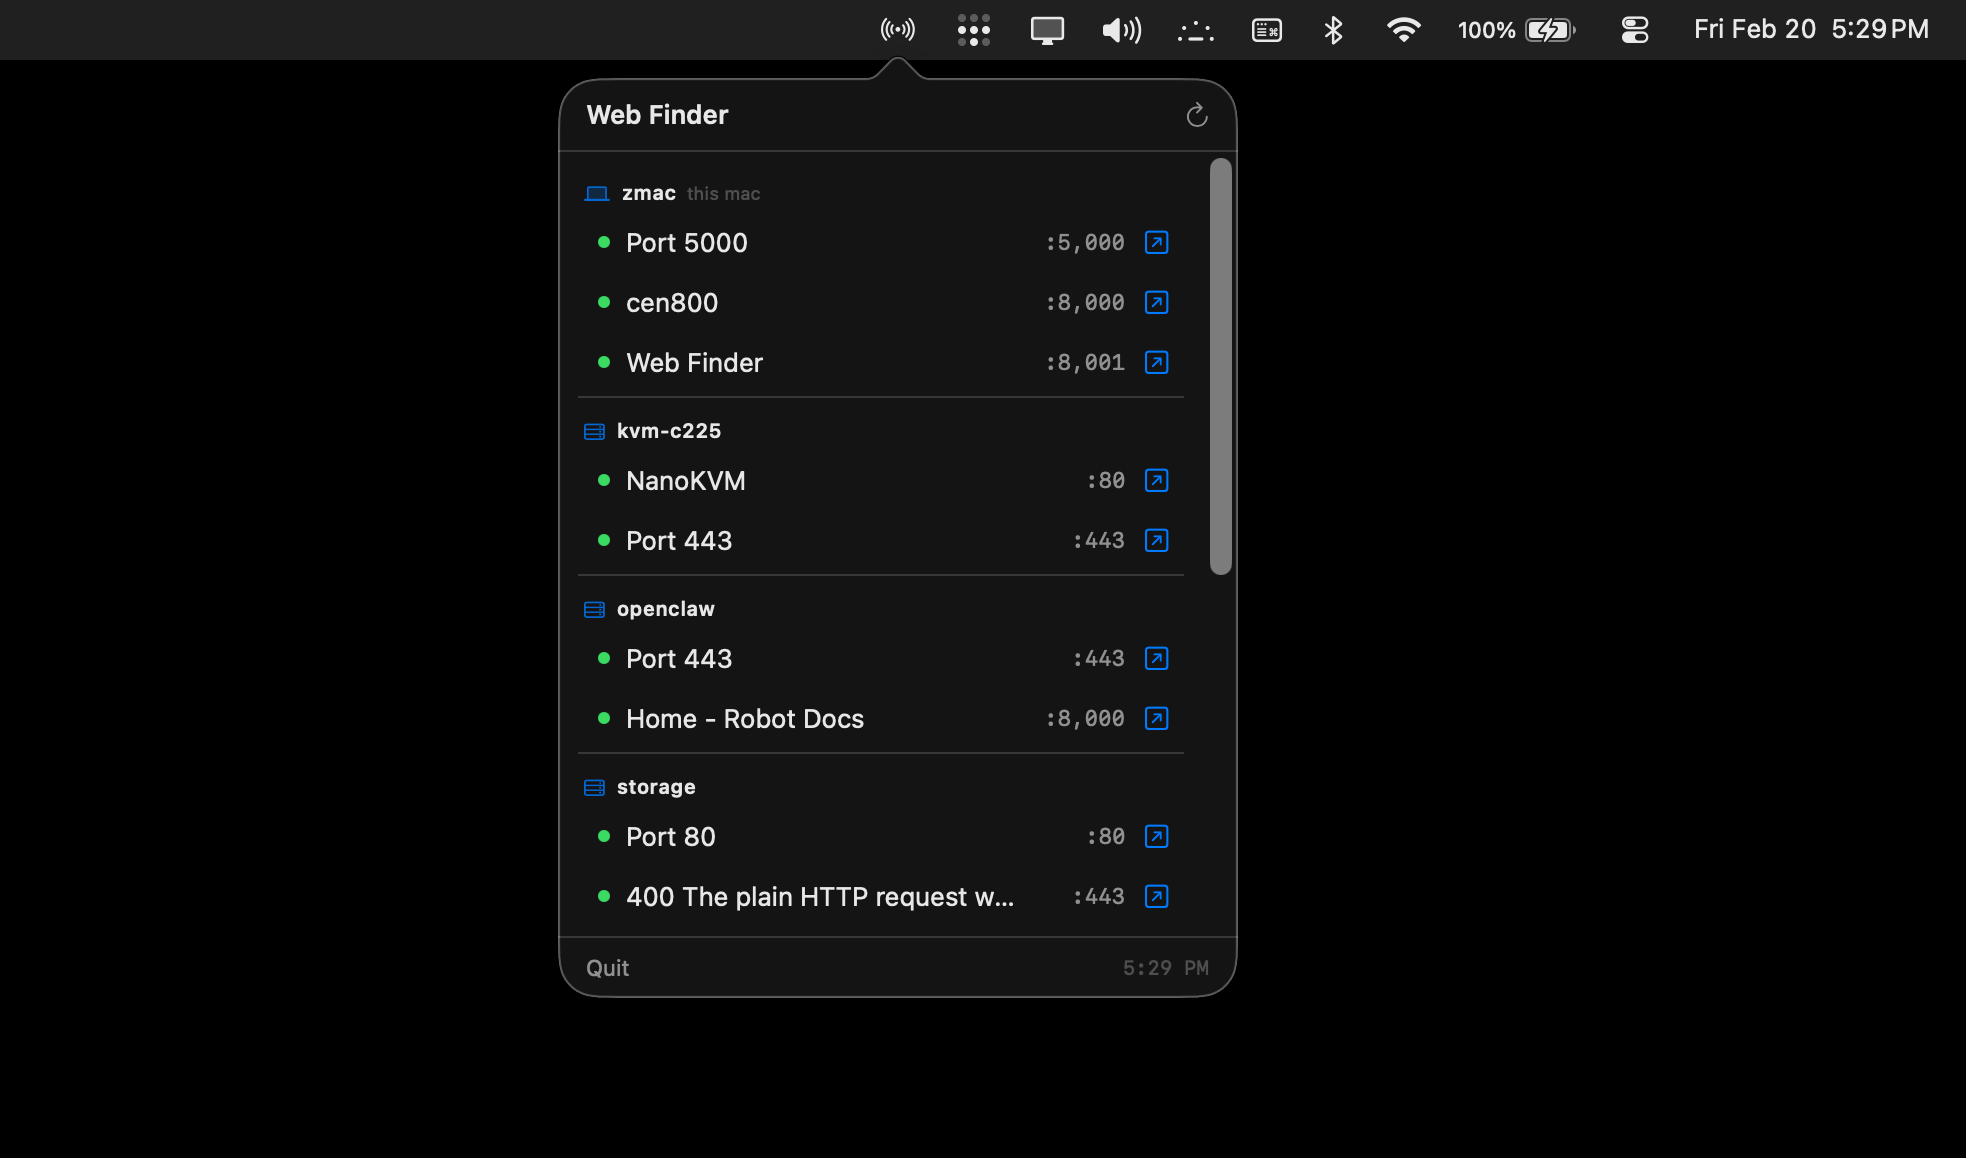
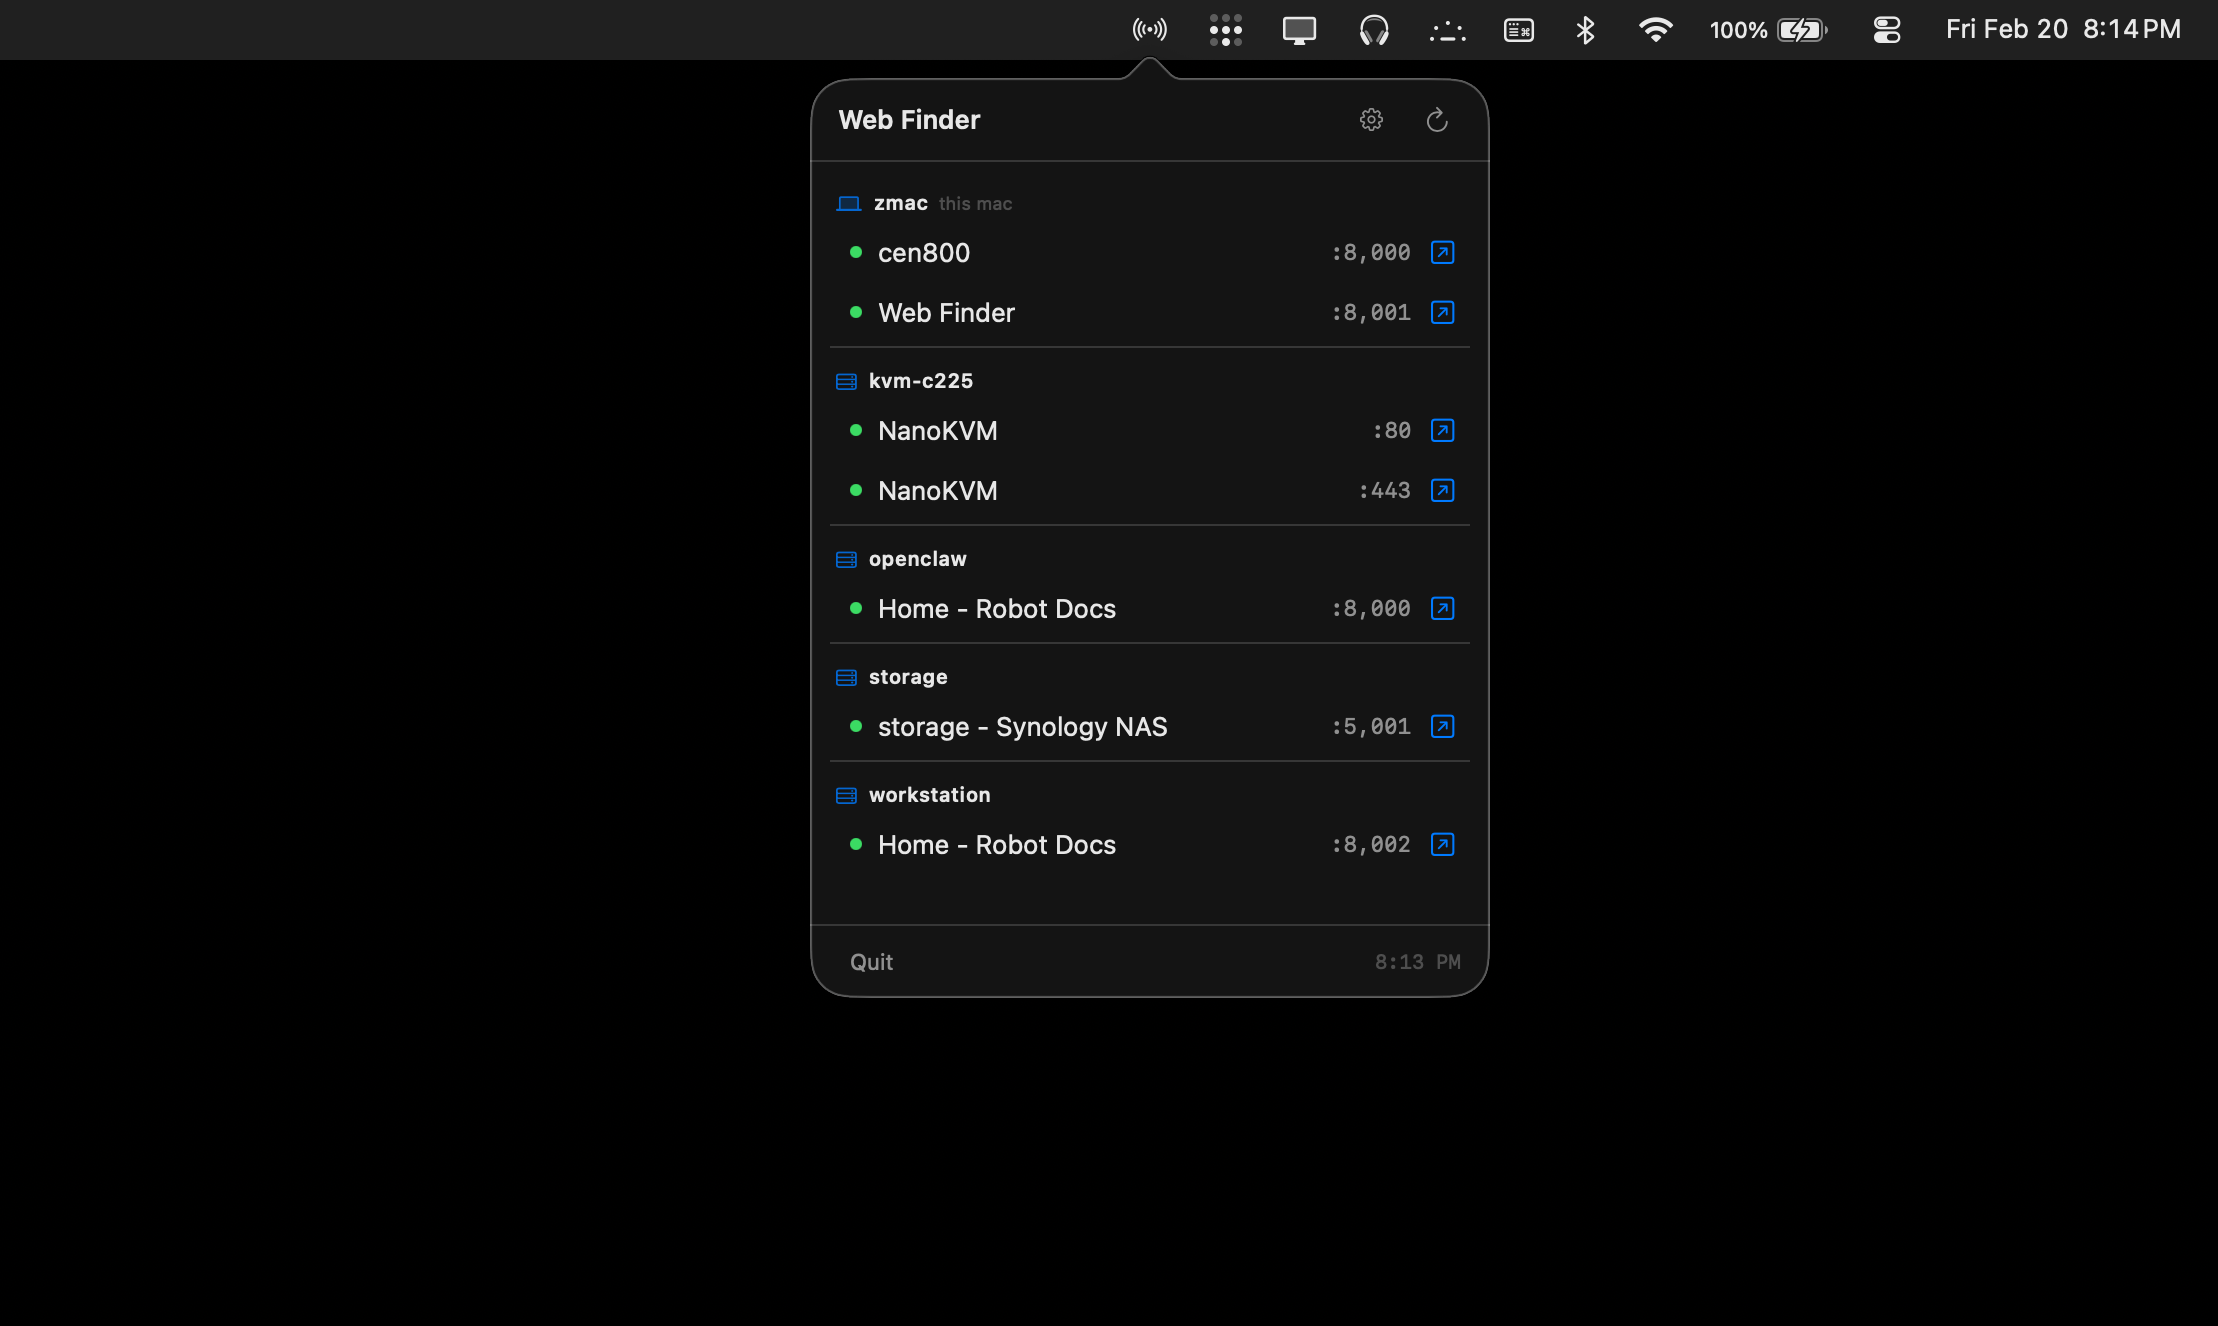
Update screenshot, bump to v1.0.3

diff --git a/docs/index.html b/docs/index.html
@@ -329,7 +329,7 @@
 <!-- NAV -->
 <nav>
   <span class="logo">Web Finder</span>
-  <span class="badge">v1.0.2</span>
+  <span class="badge">v1.0.3</span>
   <a class="gh" href="https://github.com/zeulewan/web-finder" target="_blank">
     <svg width="16" height="16" fill="currentColor" viewBox="0 0 16 16">
       <path d="M8 0C3.58 0 0 3.58 0 8c0 3.54 2.29 6.53 5.47 7.59.4.07.55-.17.55-.38 0-.19-.01-.82-.01-1.49-2.01.37-2.53-.49-2.69-.94-.09-.23-.48-.94-.82-1.13-.28-.15-.68-.52-.01-.53.63-.01 1.08.58 1.23.82.72 1.21 1.87.87 2.33.66.07-.52.28-.87.51-1.07-1.78-.2-3.64-.89-3.64-3.95 0-.87.31-1.59.82-2.15-.08-.2-.36-1.02.08-2.12 0 0 .67-.21 2.2.82.64-.18 1.32-.27 2-.27.68 0 1.36.09 2 .27 1.53-1.04 2.2-.82 2.2-.82.44 1.1.16 1.92.08 2.12.51.56.82 1.27.82 2.15 0 3.07-1.87 3.75-3.65 3.95.29.25.54.73.54 1.48 0 1.07-.01 1.93-.01 2.2 0 .21.15.46.55.38A8.013 8.013 0 0 0 16 8c0-4.42-3.58-8-8-8z"/>
